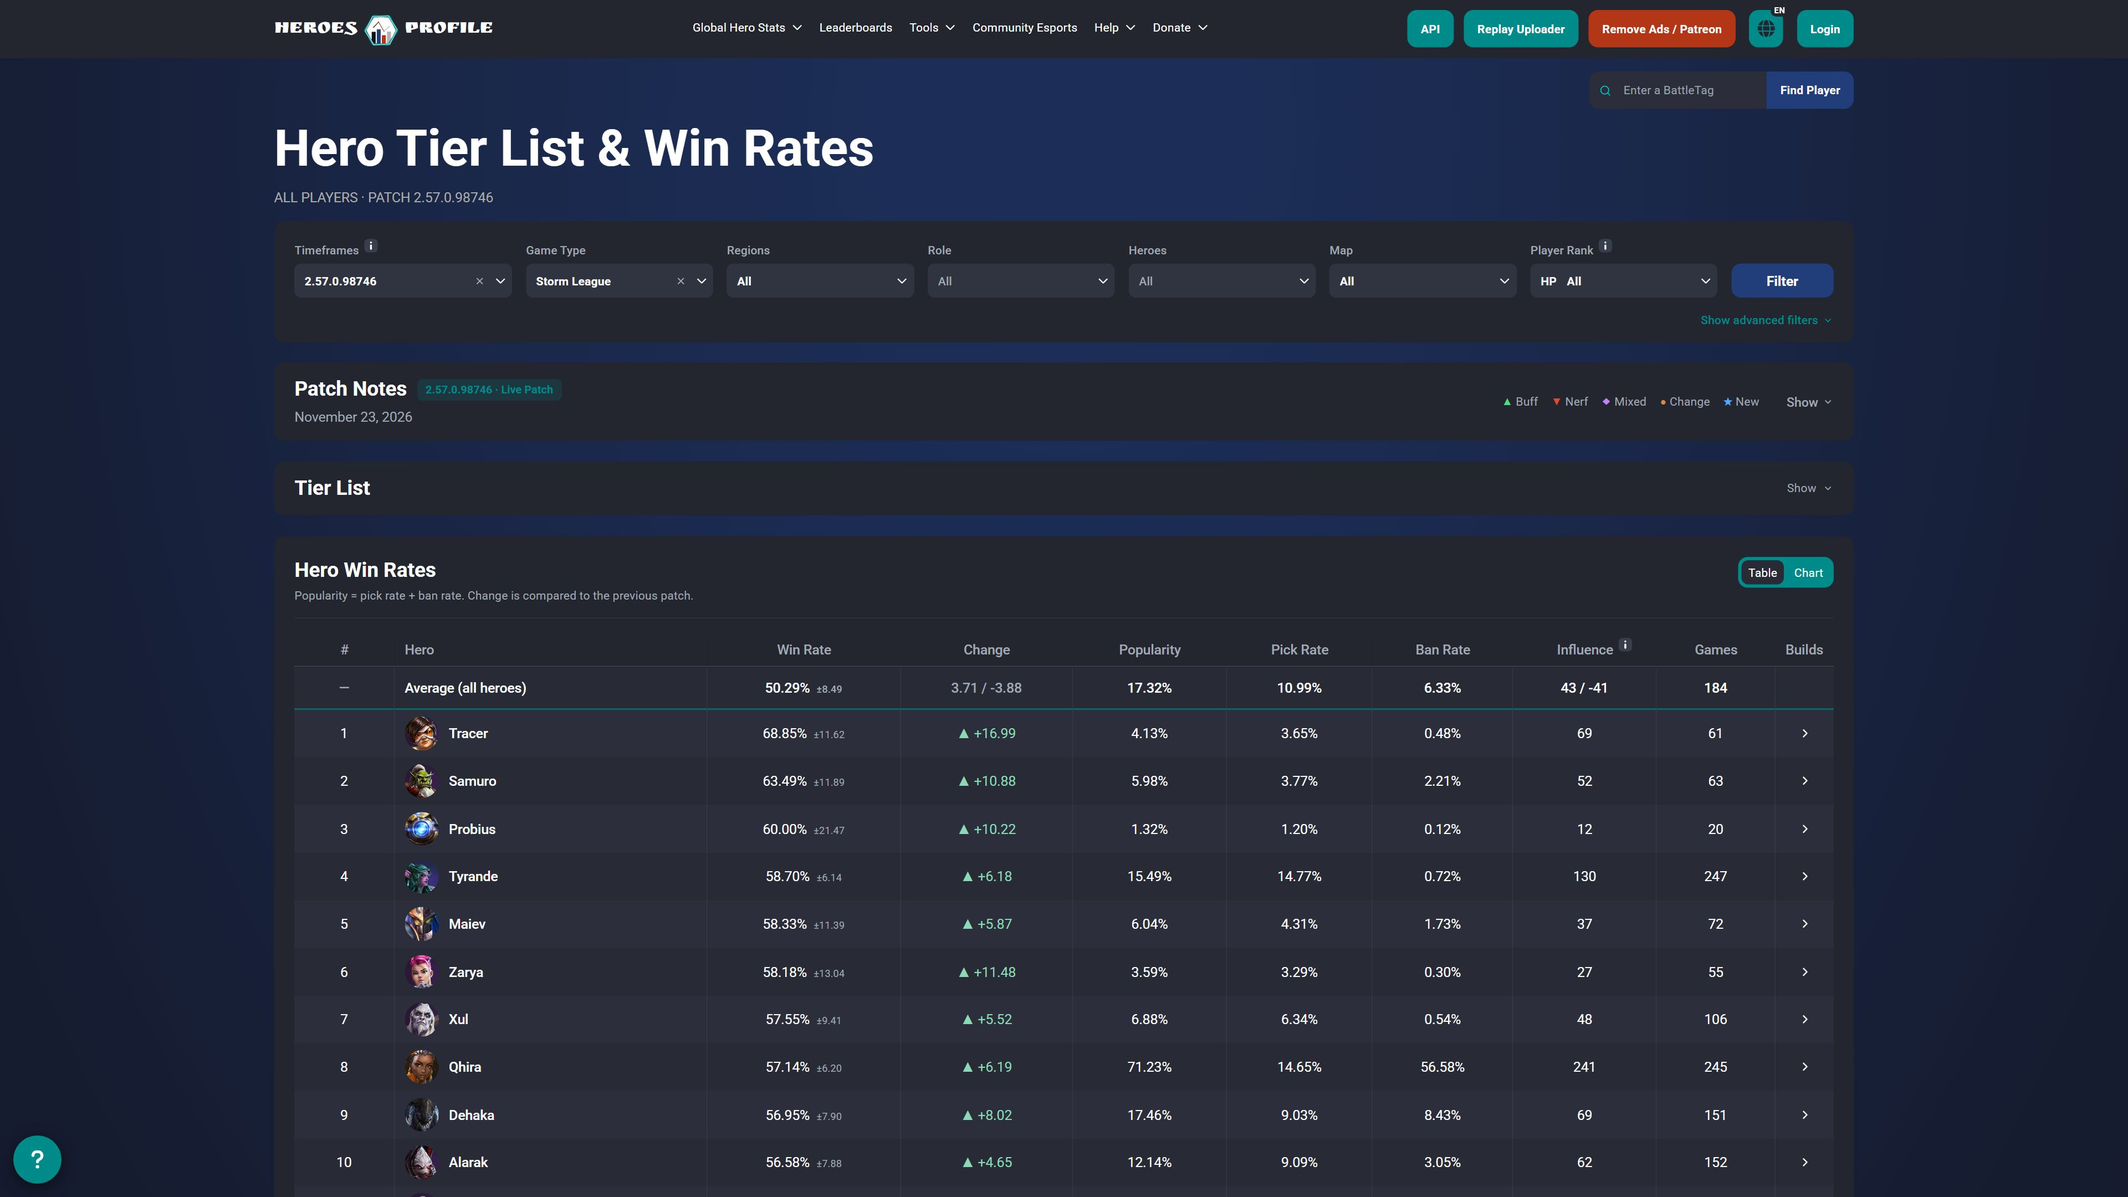
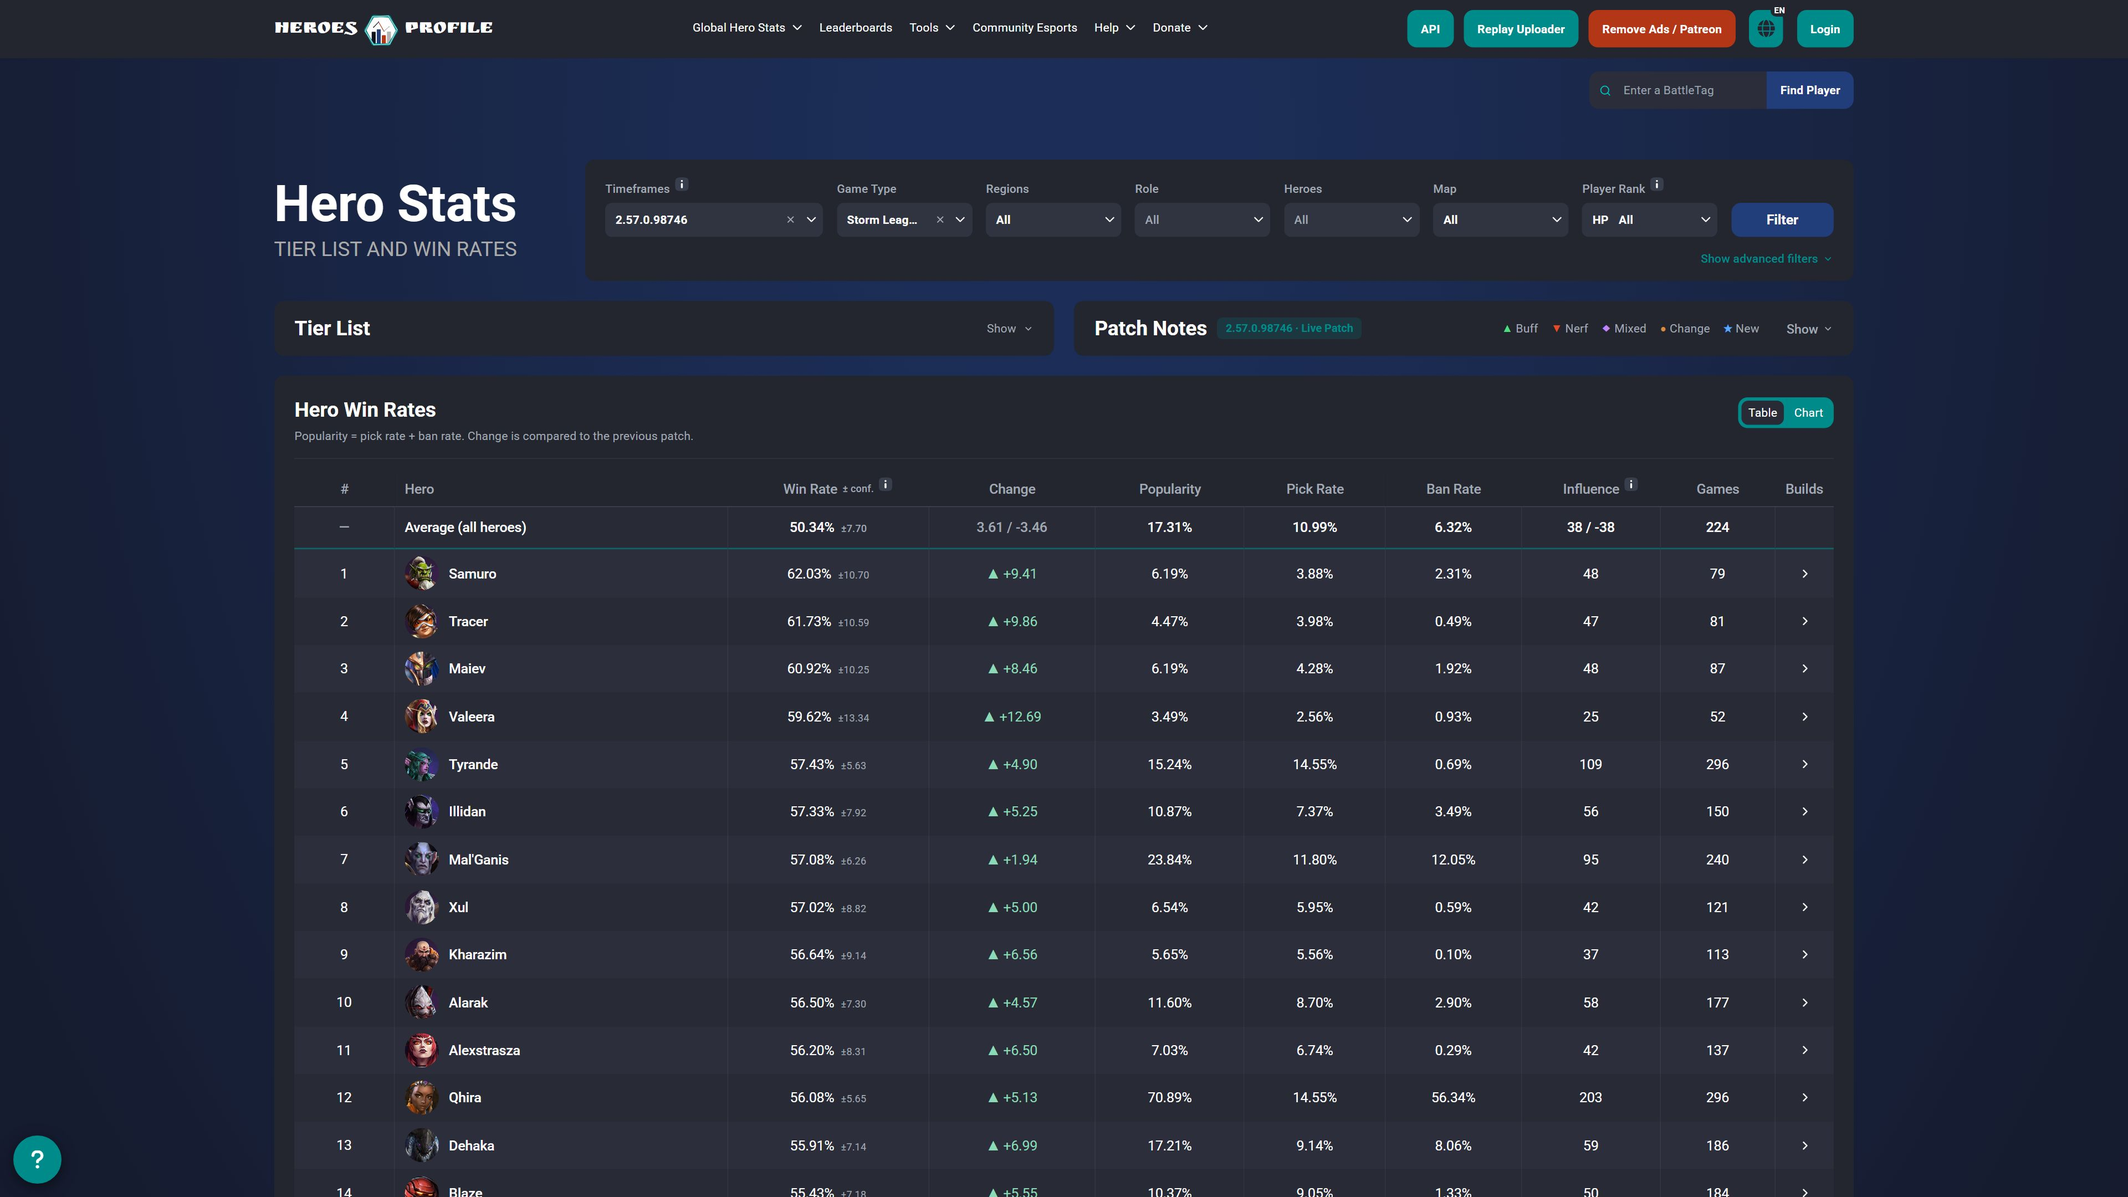
Hero Stats: heading beside the filters, Tier List and Patch Notes bars on one row (one open at a time, Tier List collapsed by default), patch date only when open; GLOBAL_DEBUG_BANNER env to hide the async debug box; compare shot retaken

diff --git a/resources/js/components/Global/Hero/GlobalHeroStats.vue b/resources/js/components/Global/Hero/GlobalHeroStats.vue
@@ -3,86 +3,93 @@
     <global-async-debug-banner page-label="Global Hero" />
 
     <!-- Heading descriptions hidden site-wide for now; may be added back somewhere else on the page. :infoText1="infoText" -->
-    <page-heading heading="Hero Tier List & Win Rates">
-      <template v-if="isSLRank" #headingInfo>
-        <round-image :popup-hoverable="true" class="text-base" size="small" icon="fas fa-info" title="info" popupsize="large" mobileClick="true">
-          <p class="font-normal">
-            {{ $t("In-game rank uses Storm League ranks read off loading screens by the uploader's opt-in rank reader. Only games with a rank read for a player count, so sample sizes are much smaller than HP rank.") }}
-            <a href="/Upload/Uploader#rank-reading" class="group/bt inline-flex items-center"><span class="group-hover/bt:underline">How rank reading works</span><basil-icon name="arrow-small" class="text-xs ml-2"></basil-icon></a>
-          </p>
-        </round-image>
+    <!-- As Global Talents: the heading with the filters beside it -->
+    <player-page-top>
+      <template #heading>
+        <page-heading heading="Hero Stats" subheading="Tier List and Win Rates">
+          <template v-if="isSLRank" #headingInfo>
+            <round-image :popup-hoverable="true" class="text-base" size="small" icon="fas fa-info" title="info" popupsize="large" mobileClick="true">
+              <p class="font-normal">
+                {{ $t("In-game rank uses Storm League ranks read off loading screens by the uploader's opt-in rank reader. Only games with a rank read for a player count, so sample sizes are much smaller than HP rank.") }}
+                <a href="/Upload/Uploader#rank-reading" class="group/bt inline-flex items-center"><span class="group-hover/bt:underline">How rank reading works</span><basil-icon name="arrow-small" class="text-xs ml-2"></basil-icon></a>
+              </p>
+            </round-image>
+          </template>
+        </page-heading>
       </template>
-    </page-heading>
-    <div class="max-w-[120rem] w-full mx-auto px-4 md:px-8 -mt-2 mb-4 flex max-sm:flex-col sm:items-center justify-between gap-x-6 gap-y-2">
-      <span class="uppercase text-gray-medium">{{ selectedPatch ? $t('All players · Patch :patch', { patch: selectedPatch }) : $t('All players') }}</span>
-    </div>
+      <filters 
+        :isLoading="isLoading"
+        :onFilter="filterData" 
+        :filters="filters" 
+        :timeframetypeinput="timeframetype"
+        :timeframeinput="timeframe"
+        :gametypeinput="gametype"
+        :regioninput="region"
+        :statfilterinput="statfilter"
+        :herolevelinput="herolevel"
+        :heroinput="getHeroID()"
+        :roleinput="role"
+        :gamemapinput="gamemap"
+        :playerrankinput="playerrank"
+        :herorankinput="herorank"
+        :rolerankinput="rolerank"
+        :talentbuildtypeinput="talentbuildtype"
+        :mirrormatchinput="mirrormatch"
+        :ranksourceinput="ranksource"
+        :slrankinput="slrank"
 
-    
-    
-
-    <filters 
-      :isLoading="isLoading"
-      :onFilter="filterData" 
-      :filters="filters" 
-      :timeframetypeinput="timeframetype"
-      :timeframeinput="timeframe"
-      :gametypeinput="gametype"
-      :regioninput="region"
-      :statfilterinput="statfilter"
-      :herolevelinput="herolevel"
-      :heroinput="getHeroID()"
-      :roleinput="role"
-      :gamemapinput="gamemap"
-      :playerrankinput="playerrank"
-      :herorankinput="herorank"
-      :rolerankinput="rolerank"
-      :talentbuildtypeinput="talentbuildtype"
-      :mirrormatchinput="mirrormatch"
-      :ranksourceinput="ranksource"
-      :slrankinput="slrank"
-
-      :gametypedefault="gametypedefault"
-      :includetimeframe="true"
-      :includeregion="true"
-      :includestatfilter="true"
-      :includeherolevel="true"
-      :includerole="true"
-      :includehero="true"
-      :includegametype="true"
-      :includegamemap="true"
-      :includeplayerrank="true"
-      :includeherorank="true"
-      :includerolerank="true"
-      :includemirror="true"
-      :includegroupsize="true"
-      :groupsizeadvanced="true"
-      :groupsizemulti="true"
-      :groupSizeDefaultValue="groupsize"
-      :includetalentbuildtype="true"
-      :includeranksource="true"
-      :advancedfiltering="advancedfiltering"
-      :buildtypedefault="defaultbuildtype"
+        :gametypedefault="gametypedefault"
+        :includetimeframe="true"
+        :includeregion="true"
+        :includestatfilter="true"
+        :includeherolevel="true"
+        :includerole="true"
+        :includehero="true"
+        :includegametype="true"
+        :includegamemap="true"
+        :includeplayerrank="true"
+        :includeherorank="true"
+        :includerolerank="true"
+        :includemirror="true"
+        :includegroupsize="true"
+        :groupsizeadvanced="true"
+        :groupsizemulti="true"
+        :groupSizeDefaultValue="groupsize"
+        :includetalentbuildtype="true"
+        :includeranksource="true"
+        :advancedfiltering="advancedfiltering"
+        :buildtypedefault="defaultbuildtype"
   
-      >
-    </filters>
+        >
+      </filters>
+    </player-page-top>
     <dynamic-banner-ad :patreon-user="patreonUser"></dynamic-banner-ad>
 
     <div v-if="this.data.data" class="max-w-[120rem] mx-auto px-4 md:px-8 flex flex-col gap-6">
-      <patch-notes-panel v-if="patchNotesUrl" class="!max-w-none !mb-0" :version="timeframe[0]"></patch-notes-panel>
-
-      <panel-box title="Tier List" :subtitle="tierListCollapsed ? null : $t('Heroes grouped by :stat', { stat: $t(tierStatLabel).toLowerCase() })" :divider="!tierListCollapsed" :class="['relative md:!pt-4', { 'md:!pb-4 cursor-pointer': tierListCollapsed }]" @click="tierListCollapsed && toggleTierList()" @header-background-click="toggleTierList">
-        <template #right>
-          <!-- Show/Hide pinned to the card's top right; the tabs keep clear of it -->
-          <div class="flex flex-wrap items-center gap-4 md:mr-20">
-            <tab-button v-show="!tierListCollapsed" :small="true" :tabs="tierRoleTabs" :ignoreclick="true" :overridedefaultside="tierRole" :key="'role' + tierRoleTabs.length" @tab-click="tierRole = $event"></tab-button>
-            <tab-button v-show="!tierListCollapsed" :small="true" :tabs="tierStatTabs" :ignoreclick="true" :overridedefaultside="tierStat" :key="tierStatTabs.length" @tab-click="tierStat = $event"></tab-button>
+      <!-- Tier List and Patch Notes bars side by side; the open one's card shows full width below, and opening one closes the other -->
+      <div :class="['grid gap-6', { 'md:grid-cols-2': patchNotesUrl }]">
+        <panel-box title="Tier List" :divider="false" class="relative md:!py-4 cursor-pointer" @click="toggleTierList">
+          <template #right>
             <button type="button" class="absolute top-4 right-4 md:right-6 h-8 flex items-center gap-2 text-sm text-subtext hover:text-white transition-colors" :aria-expanded="!tierListCollapsed" @click.stop="toggleTierList">
               {{ tierListCollapsed ? $t('Show') : $t('Hide') }}
               <basil-icon name="arrow-small" :class="['text-xs transition-transform', tierListCollapsed ? 'rotate-90' : '-rotate-90']"></basil-icon>
             </button>
+          </template>
+        </panel-box>
+        <patch-notes-panel v-if="patchNotesUrl" class="!max-w-none !mb-0" :version="timeframe[0]" body-target="#hero-stats-open-card" :expanded="patchNotesOpen" @toggle="patchNotesToggled"></patch-notes-panel>
+      </div>
+      <!-- display: contents, so it adds no gap while empty -->
+      <div id="hero-stats-open-card" class="contents"></div>
+
+      <panel-box v-if="!tierListCollapsed">
+        <div class="flex flex-wrap items-center justify-between gap-4">
+          <p class="text-sm text-subtext">{{ $t('Heroes grouped by :stat', { stat: $t(tierStatLabel).toLowerCase() }) }}</p>
+          <div class="flex flex-wrap items-center gap-4">
+            <tab-button :small="true" :tabs="tierRoleTabs" :ignoreclick="true" :overridedefaultside="tierRole" :key="'role' + tierRoleTabs.length" @tab-click="tierRole = $event"></tab-button>
+            <tab-button :small="true" :tabs="tierStatTabs" :ignoreclick="true" :overridedefaultside="tierStat" :key="tierStatTabs.length" @tab-click="tierStat = $event"></tab-button>
           </div>
-        </template>
-        <div v-if="!tierListCollapsed" class="flex flex-col gap-2">
+        </div>
+        <div class="flex flex-col gap-2">
           <div v-for="tier in tiers" :key="tier.letter" class="flex rounded-control bg-surface-1 overflow-hidden min-w-0">
             <div class="w-[8.5rem] md:w-[10.625rem] shrink-0 bg-surface-2 px-4 md:px-5 py-3 flex flex-col justify-center">
               <span :class="['text-4xl font-bold leading-none', tier.class]">{{ tier.letter }}</span>
@@ -223,27 +230,34 @@
     </div>
     <!-- The same layout in grey while the stats load, the message on a tab of the first panel -->
     <div v-else-if="isLoading" class="max-w-[120rem] mx-auto px-4 md:px-8 flex flex-col gap-6">
-      <!-- The collapsed Patch Notes card (patch-notes-panel) -->
-      <panel-box v-if="patchNotesUrl" title="Patch Notes" :skeleton="true" :divider="false" class="md:!py-4">
-        <template #right>
-          <span class="text-sm skeleton-text">{{ $t('Show') }}<basil-icon name="arrow-small" class="text-xs ml-2"></basil-icon></span>
-        </template>
-      </panel-box>
-      <panel-box title="Tier List" :subtitle="tierListCollapsed ? null : 'Heroes grouped by win rate'" :skeleton="true" :divider="!tierListCollapsed" :class="['relative md:!pt-4', { 'md:!pb-4': tierListCollapsed }]">
-        <template #right>
-          <div class="flex flex-wrap items-center gap-4 md:mr-20">
-            <div v-show="!tierListCollapsed" class="relative">
+      <!-- The two bars, as loaded -->
+      <div :class="['grid gap-6', { 'md:grid-cols-2': patchNotesUrl }]">
+        <panel-box title="Tier List" :skeleton="true" :divider="false" class="relative md:!py-4">
+          <template #right>
+            <span class="absolute top-4 right-4 md:right-6 h-8 flex items-center"><span class="text-sm skeleton-text">{{ tierListCollapsed ? $t('Show') : $t('Hide') }}<basil-icon name="arrow-small" class="text-xs ml-2"></basil-icon></span></span>
+          </template>
+        </panel-box>
+        <panel-box v-if="patchNotesUrl" title="Patch Notes" :skeleton="true" :divider="false" class="md:!py-4">
+          <template #right>
+            <span class="text-sm skeleton-text">{{ $t('Show') }}<basil-icon name="arrow-small" class="text-xs ml-2"></basil-icon></span>
+          </template>
+        </panel-box>
+      </div>
+      <panel-box v-if="!tierListCollapsed" :skeleton="true">
+        <div class="flex flex-wrap items-center justify-between gap-4">
+          <p class="text-sm"><span class="skeleton-text">Heroes grouped by win rate</span></p>
+          <div class="flex flex-wrap items-center gap-4">
+            <div class="relative">
               <tab-button class="invisible" :small="true" :tabs="skeletonRoleTabs" aria-hidden="true"></tab-button>
               <skeleton-box class="absolute inset-0"></skeleton-box>
             </div>
-            <div v-show="!tierListCollapsed" class="relative">
+            <div class="relative">
               <tab-button class="invisible" :small="true" :tabs="tierStatTabs" aria-hidden="true"></tab-button>
               <skeleton-box class="absolute inset-0"></skeleton-box>
             </div>
-            <span class="absolute top-4 right-4 md:right-6 h-8 flex items-center"><span class="text-sm skeleton-text">{{ tierListCollapsed ? $t('Show') : $t('Hide') }}<basil-icon name="arrow-small" class="text-xs ml-2"></basil-icon></span></span>
           </div>
-        </template>
-        <div v-if="!tierListCollapsed" class="flex flex-col gap-2">
+        </div>
+        <div class="flex flex-col gap-2">
           <div v-for="(count, tier) in [8, 22, 26, 22, 9]" :key="tier" class="flex rounded-control bg-surface-1 overflow-hidden min-w-0">
             <div class="w-[8.5rem] md:w-[10.625rem] shrink-0 bg-surface-2 px-4 md:px-5 py-3 flex flex-col justify-center items-start">
               <span class="text-4xl font-bold leading-none skeleton-text">S</span>
@@ -311,7 +325,9 @@ export default {
       // The tier list's role: 'All' or one role, picked separately from the filters' Role
       tierRole: 'All',
       skeletonRoleTabs: ['All', 'Bruiser', 'Healer', 'Melee Assassin', 'Ranged Assassin', 'Support', 'Tank'].map(role => ({ key: role, text: role })),
-      tierListCollapsed: Cookies.get('heroTierListCollapsed') === 'true',
+      // Collapsed unless it was opened before
+      tierListCollapsed: Cookies.get('heroTierListCollapsed') !== 'false',
+      patchNotesOpen: false,
       toggletalentbuilds: {},
       talentbuilddata: {},
       selectedbuildtype: null,
@@ -397,9 +413,6 @@ export default {
         !this.isSLRank
       );
 
-    },
-    selectedPatch() {
-      return this.timeframetype === 'minor' && this.timeframe && this.timeframe.length === 1 ? this.timeframe[0] : null;
     },
     loadingMessage() {
       if (this.determineIfVeryLargeData()) {
@@ -731,7 +744,17 @@ export default {
       // A click that closes an open filter menu only closes the menu
       if (document.querySelector('.expandable-dropdown')) return;
       this.tierListCollapsed = !this.tierListCollapsed;
+      if (!this.tierListCollapsed) {
+        this.patchNotesOpen = false;
+      }
       Cookies.set('heroTierListCollapsed', this.tierListCollapsed ? 'true' : 'false', { expires: 365, path: '/' });
+    },
+    // Opening the notes closes the tier list for now; the saved choice stays as it was
+    patchNotesToggled(open) {
+      this.patchNotesOpen = open;
+      if (open) {
+        this.tierListCollapsed = true;
+      }
     },
     toggleChartValue() {
       this.togglechart = !this.togglechart;

diff --git a/resources/js/components/Global/PatchNotesPanel.vue b/resources/js/components/Global/PatchNotesPanel.vue
@@ -1,6 +1,7 @@
 <template>
   <!-- Collapsed until opened; the notes load the first time it opens -->
-  <panel-box :class="['w-full max-w-[93.75rem] mx-auto mb-4 md:!pt-4', { 'md:!pb-4 cursor-pointer': !open }]" @click="!open && toggle()">
+  <!-- With bodyTarget the notes open in their own card there, below a row of bars (Global Hero Stats) -->
+  <panel-box :class="['w-full max-w-[93.75rem] mx-auto mb-4 md:!pt-4', { 'md:!pb-4 cursor-pointer': !open || bodyTarget }]" @click="!open && toggle()">
     <!-- The bar, as in the redesign: title and patch chip, the patch date under them, the legend, then Show/Hide -->
     <!-- Open, a click on the bar's empty space closes it; closed, the whole card opens it -->
     <div class="flex flex-wrap items-center gap-4" @click.stop="barClicked">
@@ -9,7 +10,7 @@
           <h3 class="text-2xl font-bold">{{ $t('Patch Notes') }}</h3>
           <span class="px-2.5 py-[0.1875rem] rounded-[0.375rem] bg-teal/[0.18] text-teal text-[0.8125rem] font-bold whitespace-nowrap">{{ version }}<template v-if="notes && notes.version === version && notes.title"> · {{ notes.title }}</template></span>
         </div>
-        <span v-if="notes && notes.version === version && notes.date" class="text-subtext">{{ notes.date }}</span>
+        <span v-if="open && notes && notes.version === version && notes.date" class="text-subtext">{{ notes.date }}</span>
       </div>
       <div class="max-md:hidden flex items-center gap-4 whitespace-nowrap">
         <span v-for="(badge, type) in usedBadges" :key="type" class="flex items-center gap-1">
@@ -21,9 +22,10 @@
         <basil-icon name="arrow-small" :class="['text-xs transition-transform', open ? '-rotate-90' : 'rotate-90']"></basil-icon>
       </button>
     </div>
-    <div v-if="open" class="h-px bg-gray-dark"></div>
+    <div v-if="open && !bodyTarget" class="h-px bg-gray-dark"></div>
 
-    <div v-if="open" class="text-gray-light">
+    <Teleport defer :to="bodyTarget" :disabled="!bodyTarget">
+    <component :is="bodyTarget ? 'panel-box' : 'div'" v-if="open" class="text-gray-light">
     <div v-if="loading" class="text-center py-4">{{ $t('Loading patch notes...') }}</div>
 
     <div v-else-if="notes">
@@ -164,7 +166,8 @@
     </div>
 
     <div v-else class="text-center py-4 text-gray-medium">{{ $t('No summary available for this patch.') }}</div>
-    </div>
+    </component>
+    </Teleport>
   </panel-box>
 </template>
 
@@ -176,7 +179,18 @@ export default {
       type: String,
       required: true
     },
+    // A selector to open the notes into, instead of under the bar
+    bodyTarget: {
+      type: String,
+      default: null
+    },
+    // Lets the page close it (another card opened)
+    expanded: {
+      type: Boolean,
+      default: null
+    },
   },
+  emits: ['toggle'],
   data() {
     return {
       open: false,
@@ -236,6 +250,11 @@ export default {
     this.loadNotes();
   },
   watch: {
+    expanded(value) {
+      if (value !== null && value !== this.open) {
+        this.open = value;
+      }
+    },
     version() {
       this.loadNotes();
     },
@@ -252,6 +271,7 @@ export default {
       // A click that closes an open filter menu only closes the menu
       if (document.querySelector('.expandable-dropdown')) return;
       this.open = !this.open;
+      this.$emit('toggle', this.open);
       if (this.open && this.loadedVersion !== this.version) {
         this.loadNotes();
       }

diff --git a/resources/js/components/Global/GlobalAsyncDebugBanner.vue b/resources/js/components/Global/GlobalAsyncDebugBanner.vue
@@ -34,6 +34,10 @@ export default {
   },
   computed: {
     showDebugBanner() {
+      // GLOBAL_DEBUG_BANNER=false in .env turns it off
+      if (document.querySelector('meta[name="global-debug-banner"]')?.content === '0') {
+        return false;
+      }
       const host = window.location.hostname;
       return host.includes('develop') || host === 'localhost' || host === '127.0.0.1';
     },

diff --git a/resources/views/layouts/app.blade.php b/resources/views/layouts/app.blade.php
@@ -38,6 +38,7 @@
     <meta name="viewport" content="width=device-width, initial-scale=1,  user-scalable=yes">
 
     <meta name="csrf-token" content="{{ csrf_token() }}">
+    <meta name="global-debug-banner" content="{{ config('global.debug_banner') ? 1 : 0 }}">
 
     <title>@yield('title') | Heroes Profile</title>
     <meta name = "keywords" content = "@yield('meta_keywords')" />

diff --git a/config/global.php b/config/global.php
@@ -28,6 +28,9 @@ return [
 
     'bypass_cache' => env('GLOBAL_BYPASS_CACHE', false),
 
+    // The yellow async debug box on the global pages (develop and local hosts only); false hides it
+    'debug_banner' => env('GLOBAL_DEBUG_BANNER', true),
+
     /*
     |--------------------------------------------------------------------------
     | Freeze the live patch's cached results
